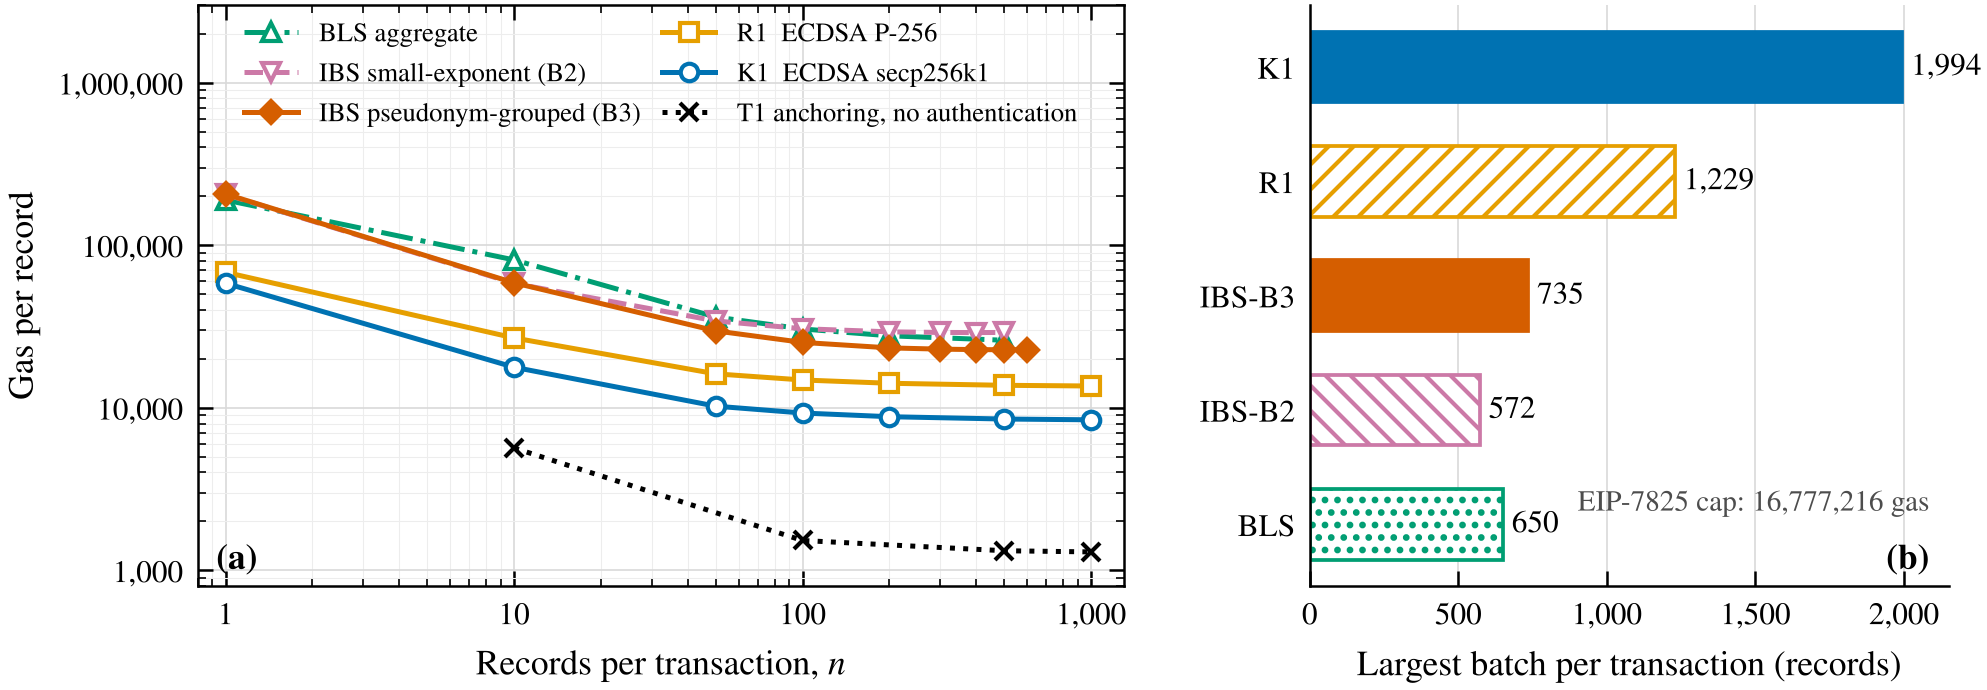
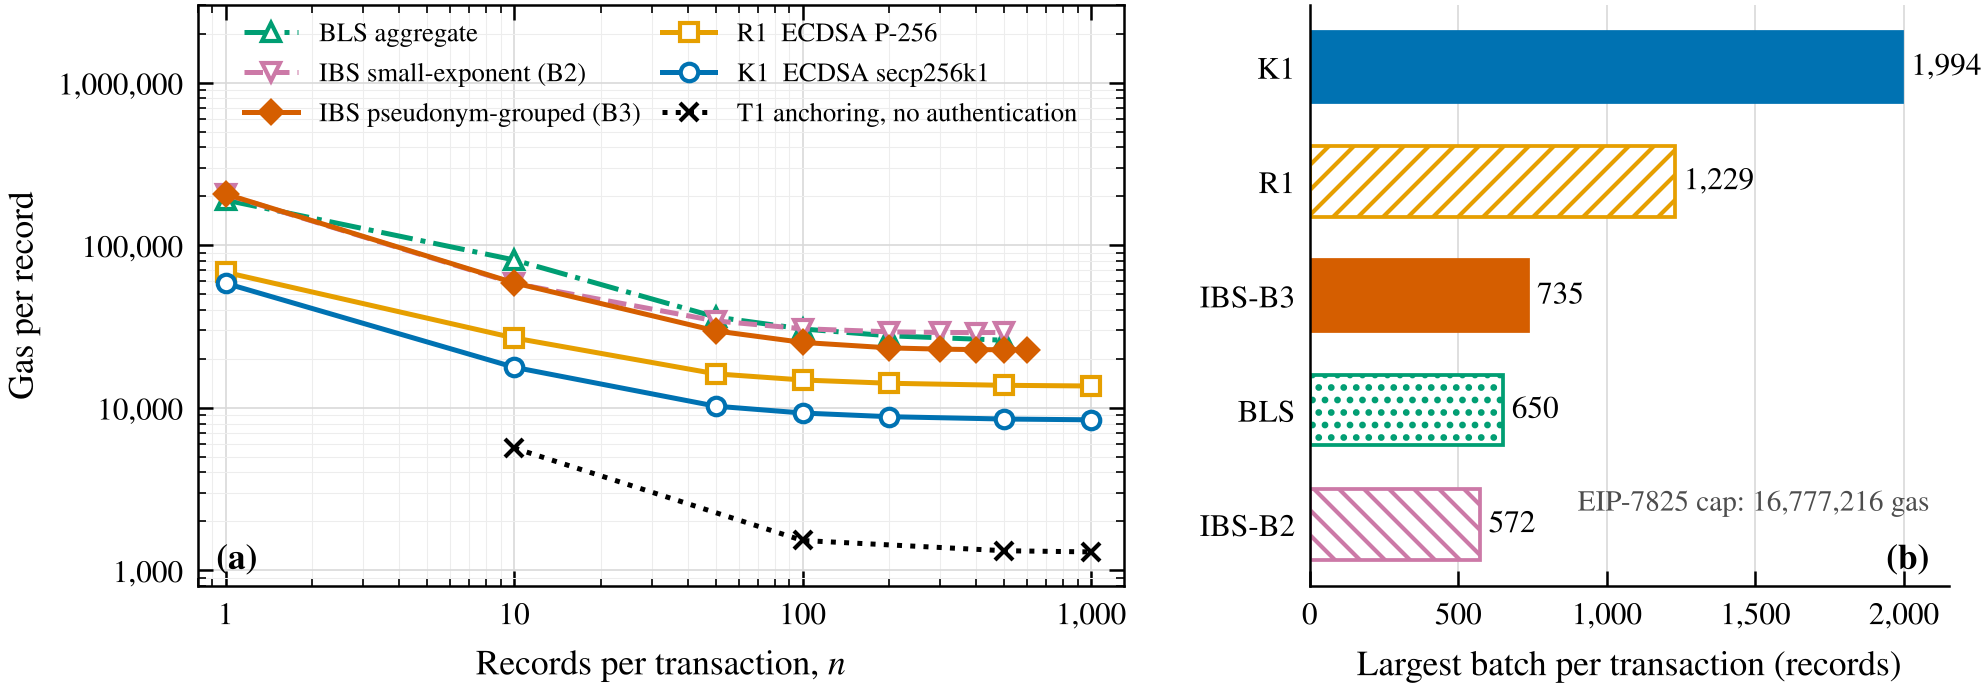
figure3 update

Changed region(s): [[0.5929, 0.7, 0.7801, 0.8217], [0.5929, 0.5174, 0.7801, 0.6696]]

diff --git a/figures/make_figures.py b/figures/make_figures.py
@@ -85,6 +85,7 @@ def fig_onchain(onchain, out):
     order = [("K1", bres["max_batch"]["K1"]), ("R1", bres["max_batch"]["R1"]),
              ("B3", ires["max_batch"]["B3 grouped small-exponent batch"]),
              ("B2", ires["max_batch"]["B2 small-exponent batch"]), ("BLS", bres["max_batch"]["BLS"])]
+    order = sorted(order, key=lambda kv: -kv[1])   # largest batch first
     names = {"K1": "K1", "R1": "R1", "B3": "IBS-B3", "B2": "IBS-B2", "BLS": "BLS"}
     hatches = {"K1": "", "R1": "////", "B3": "", "B2": "\\\\\\\\", "BLS": "...."}
     y = range(len(order))[::-1]
